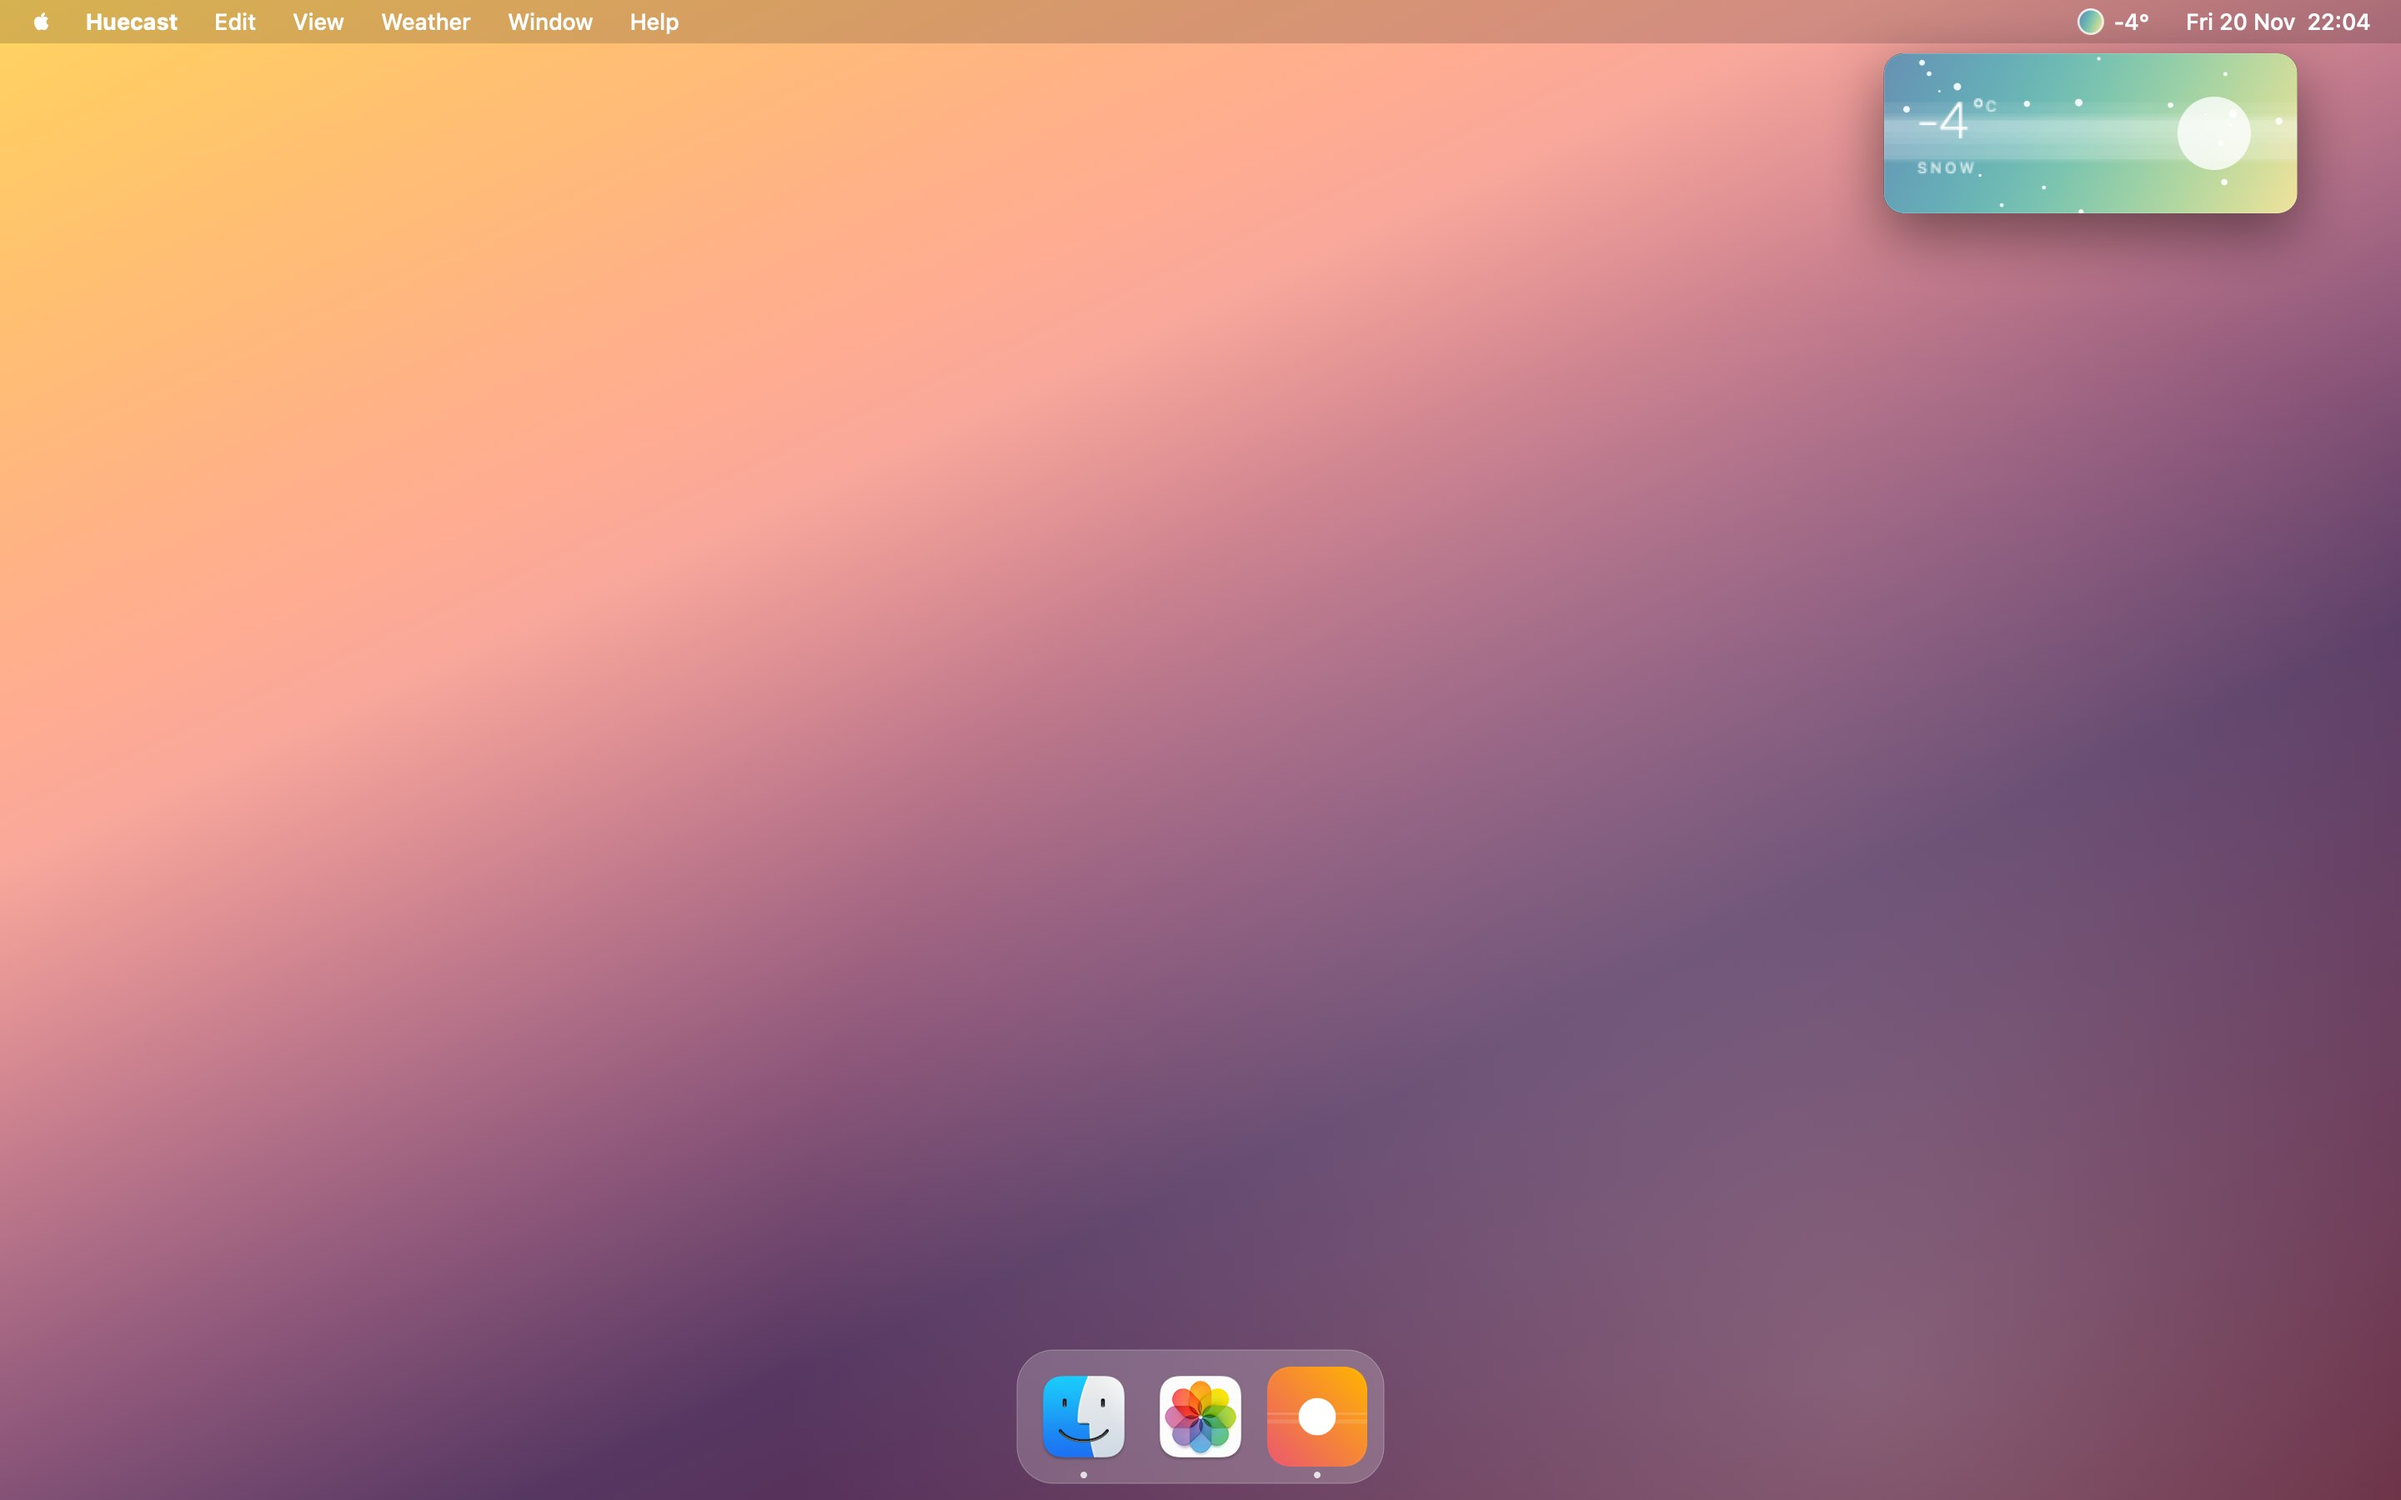
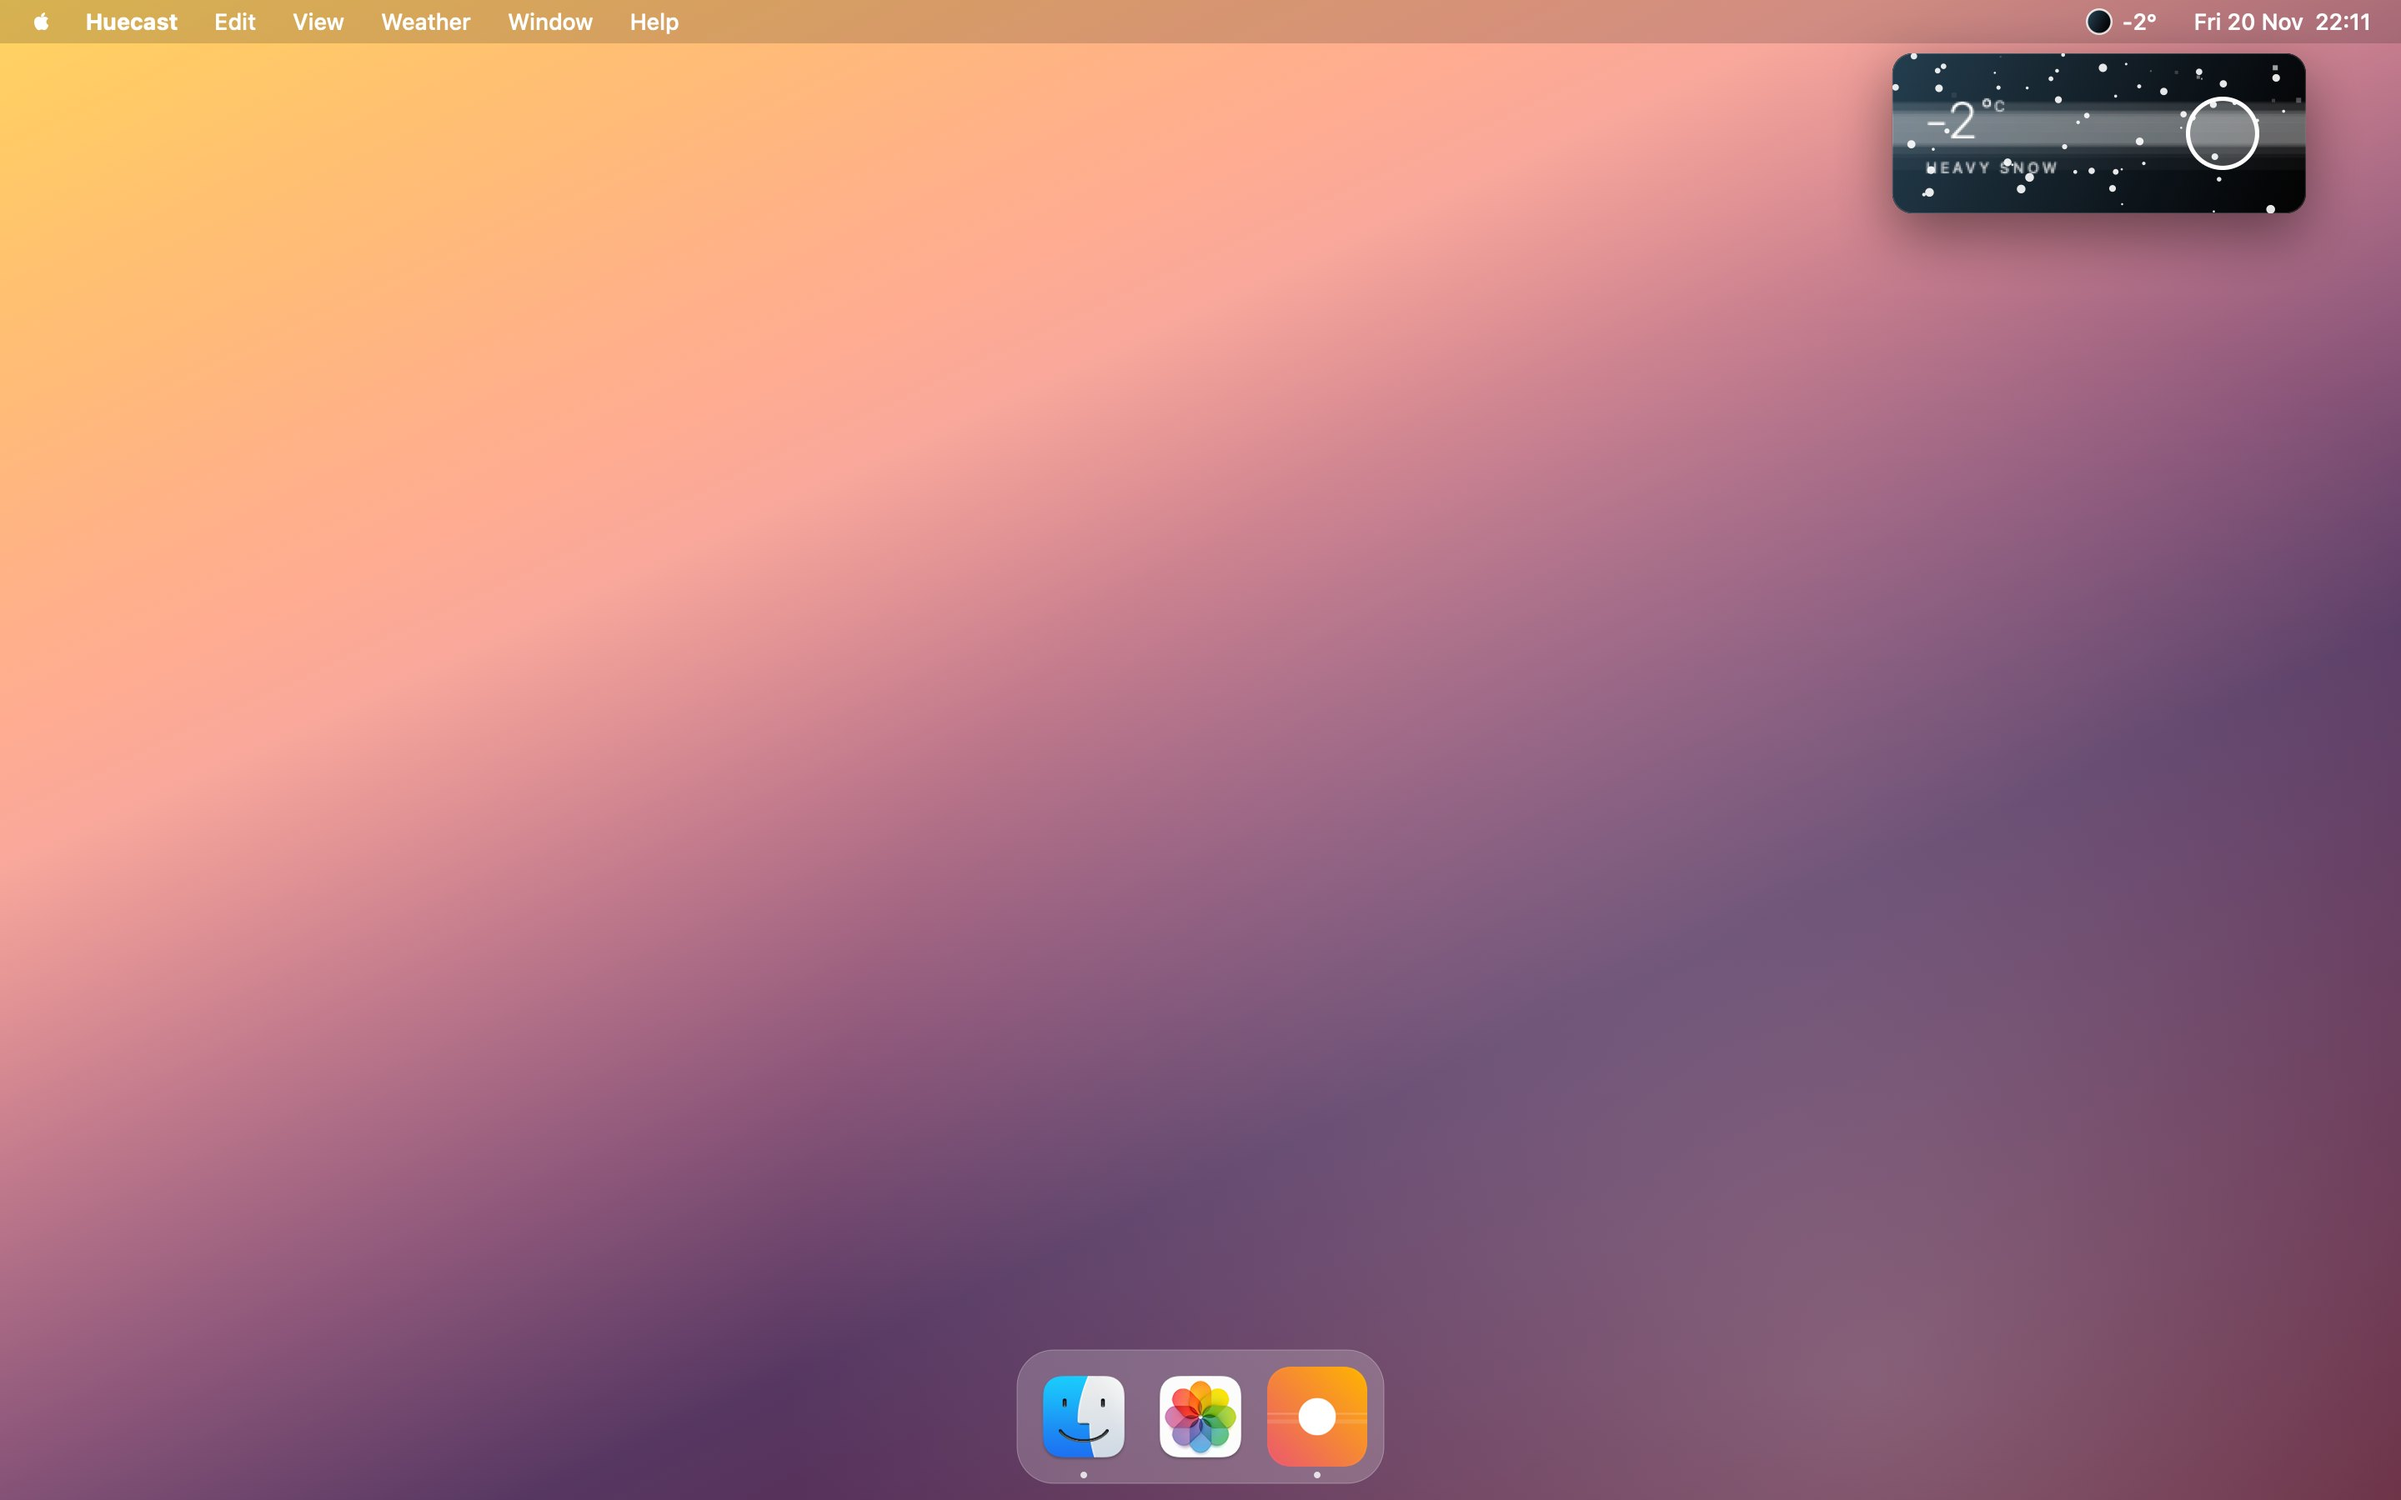
macOS: shortcuts in the gear menu, night snow screenshots, six demo scenes on CI (#45)
* Add a native macOS app (SwiftUI) in macos/

A Swift port of the sky engine (palette, conditions, Open-Meteo forecast)
as a UI-free HuecastCore library with tests against values from the web
app, and a SwiftUI app: gradient sky, Canvas particles, sun and moon,
forecast bar with hover magnification and scrubbing, next days, search,
pins, units, save as picture and a desktop wallpaper mode.

build-app.sh bundles Huecast.app; a GitHub Actions workflow tests and
builds it on macOS and uploads the zipped app.

Claude-Session: https://claude.ai/code/session_01B7qqqC3wGhTd4kXV8uEMWr

* macOS: menu bar icon with an expandable widget

The menu bar icon is a full circle painted with the current sky and a
border in the menu bar's text colour, with the temperature next to it.
Clicking it opens a small widget over the live sky that expands to the
forecast bar. Adds -lat/-lon/-name launch options and a -snapshots mode
that CI uses to take screenshots.

Claude-Session: https://claude.ai/code/session_01B7qqqC3wGhTd4kXV8uEMWr

* macOS: read launch places by hand, retry a timed out forecast

UserDefaults read a negative longitude as the next option. Screenshot
mode now also runs when loading fails.

Claude-Session: https://claude.ai/code/session_01B7qqqC3wGhTd4kXV8uEMWr

* macOS: fix a stray brace in AppModel

Claude-Session: https://claude.ai/code/session_01B7qqqC3wGhTd4kXV8uEMWr

* macOS: keep the sun its size when it glows
[…]

Changed region(s): [[0.7812, 0.0, 1.0, 0.1556]]

diff --git a/macos/Sources/Huecast/ContentView.swift b/macos/Sources/Huecast/ContentView.swift
@@ -263,7 +263,7 @@ struct ContentView: View {
                 ToolButton(symbol: "magnifyingglass", help: "Search city (⌘K)") { model.showSearch = true }
                 ToolButton(symbol: "dice", help: "Random city (⌘R)") { model.openRandomCity() }
                 Menu {
-                    MenuItems(model: model, shortcuts: false)
+                    MenuItems(model: model)
                 } label: {
                     Image(systemName: "gearshape")
                         .font(.system(size: 15))
@@ -316,8 +316,8 @@ extension View {
     }
 }
 
-/// The options, shared by the gear menu and the menu bar (which owns
-/// the keyboard shortcuts, so they don't fire twice)
+/// The options, shared by the gear menu and the menu bar, both showing
+/// their ⌘ shortcuts (a key press goes to one menu item only)
 struct MenuItems: View {
     var model: AppModel
     var shortcuts = true

diff --git a/macos/README.md b/macos/README.md
@@ -7,9 +7,9 @@ made from **temperature × time of day**, and the weather drawn as particles.
 
 **[Download for MacOS](https://github.com/carlosmarch/huecast/releases/latest/download/Huecast.zip)** · macOS 14 or later · Free
 
-<img src="screenshots/window.jpg" width="100%" alt="The Huecast window on a Mac desktop: a snowy morning sky, the veiled sun and the 24-hour forecast bar">
+<img src="screenshots/window.jpg" width="100%" alt="The Huecast window on a Mac desktop: heavy snow at night, the moon and the 24-hour forecast bar with the bright day ahead">
 
-<img src="screenshots/widget.jpg" width="100%" alt="The Huecast menu bar widget open under the sky icon: the temperature, the condition and the sun">
+<img src="screenshots/widget.jpg" width="100%" alt="The Huecast menu bar widget open under the sky icon: the temperature, the condition and the moon">
 
 The menu bar icon in different skies, on a light and a dark menu bar:
 
